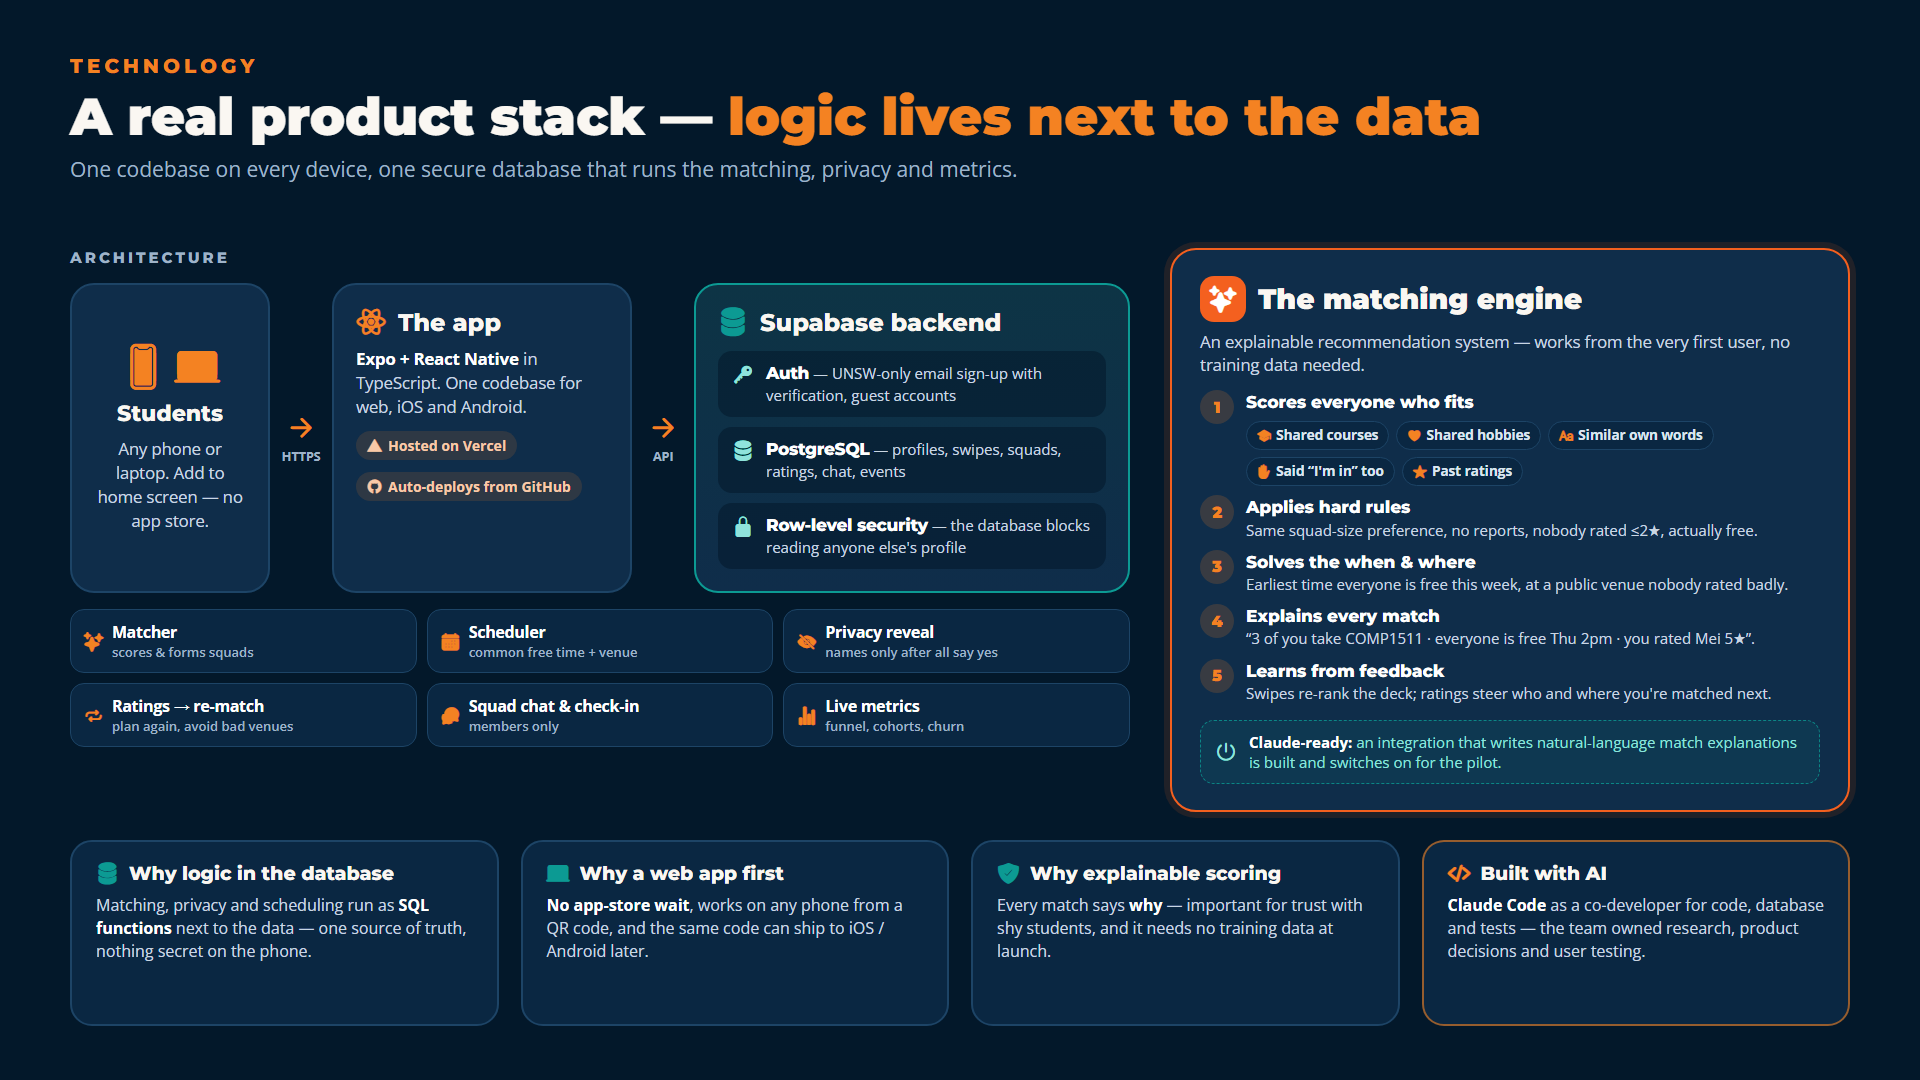
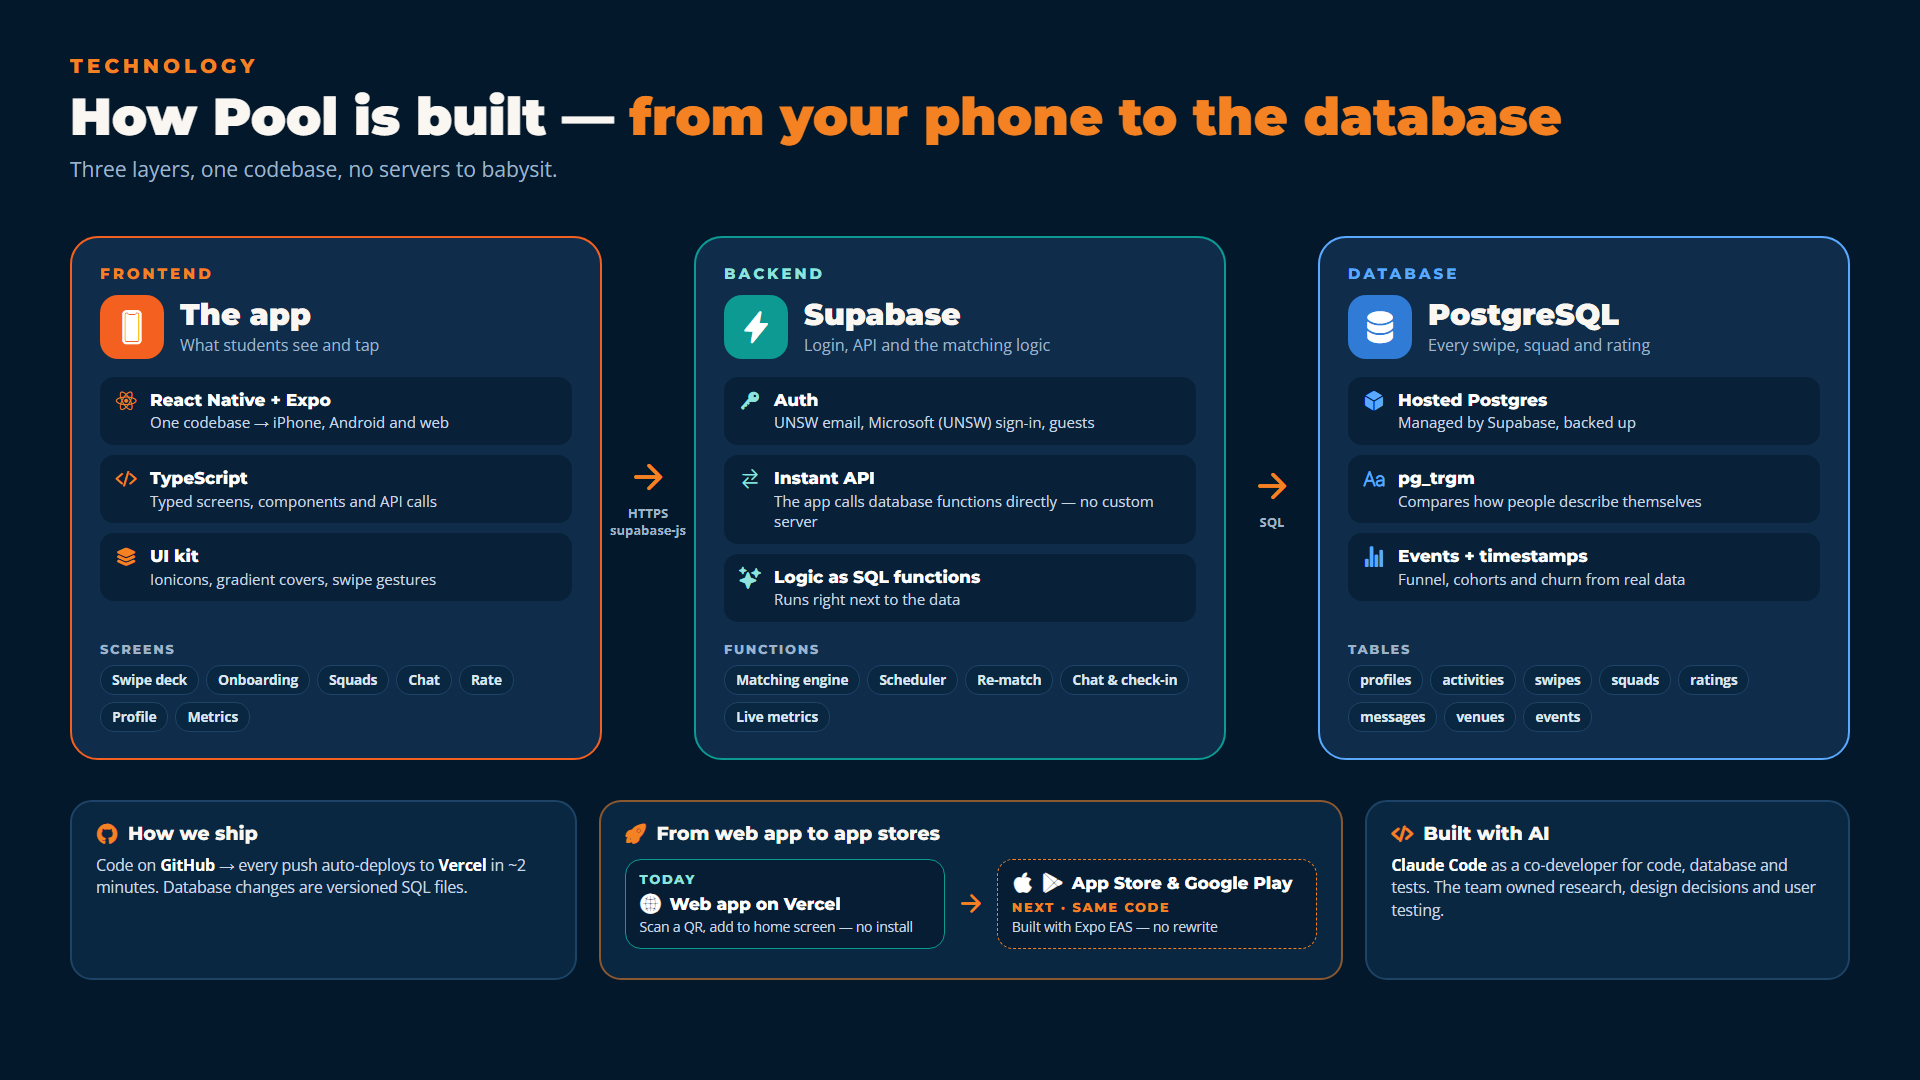
Technology slide v2: frontend → backend → database flow, web-to-app-store path

diff --git a/docs/technology-slide.html b/docs/technology-slide.html
@@ -9,7 +9,7 @@
   @font-face { font-family: Ionicons; src: url(Ionicons.ttf); }
   :root {
     --navy: #03182A; --navy2: #0A2742; --card: #0F2D4A; --line: #1D4466;
-    --orange: #F4601F; --orange2: #F48222; --teal: #0C9A93; --mint: #8FE3DC;
+    --orange: #F4601F; --orange2: #F48222; --teal: #0C9A93; --mint: #8FE3DC; --blue: #5AA9FF;
     --cream: #FAF7F2; --muted: #9FB3C8; --body: #C9D6E3;
   }
   * { box-sizing: border-box; margin: 0; padding: 0; }
@@ -23,157 +23,153 @@
   h1 em { font-style: normal; color: var(--orange2); }
   .sub { font-size: 21px; color: var(--muted); margin-top: 10px; }
 
-  .label { font-family: Montserrat; font-weight: 800; font-size: 15px; letter-spacing: 3px; color: var(--muted); }
+  /* ---------- the flow ---------- */
+  .flow { position: absolute; left: 70px; right: 70px; top: 236px; height: 524px; display: flex; align-items: stretch; }
+  .layer { flex: 1; background: var(--card); border: 2px solid var(--line); border-radius: 28px; padding: 26px 28px;
+    display: flex; flex-direction: column; position: relative; }
+  .layer.front { border-color: var(--orange); }
+  .layer.back { border-color: var(--teal); }
+  .layer.db { border-color: var(--blue); }
+  .tag { font-family: Montserrat; font-weight: 800; font-size: 15px; letter-spacing: 3px; }
+  .front .tag { color: var(--orange2); } .back .tag { color: var(--mint); } .db .tag { color: var(--blue); }
+  .head { display: flex; align-items: center; gap: 16px; margin-top: 12px; }
+  .badge { width: 64px; height: 64px; border-radius: 18px; display: flex; align-items: center; justify-content: center;
+    font-size: 34px; color: #fff; flex: none; }
+  .front .badge { background: var(--orange); } .back .badge { background: var(--teal); } .db .badge { background: #2F7BD6; }
+  .head h2 { font-family: Montserrat; font-weight: 900; font-size: 30px; line-height: 1.1; }
+  .head p { font-size: 16px; color: var(--muted); margin-top: 3px; }
+  .stack { margin-top: 18px; display: grid; gap: 10px; }
+  .row { display: flex; align-items: flex-start; gap: 12px; background: rgba(3,24,42,.55); border-radius: 14px; padding: 12px 14px; }
+  .row .i { font-size: 22px; margin-top: 1px; flex: none; width: 24px; text-align: center; }
+  .front .row .i { color: var(--orange2); } .back .row .i { color: var(--mint); } .db .row .i { color: var(--blue); }
+  .row b { font-family: Montserrat; font-weight: 800; font-size: 17px; color: #fff; }
+  .row div { font-size: 15px; color: var(--body); line-height: 1.38; }
+  .chips { display: flex; flex-wrap: wrap; gap: 7px; margin-top: auto; padding-top: 14px; }
+  .chip { padding: 5px 11px; border-radius: 14px; background: var(--navy2); border: 1px solid var(--line);
+    font-size: 13.5px; font-weight: 700; color: #DCE6F0; }
+  .chiplabel { font-family: Montserrat; font-weight: 800; font-size: 12.5px; letter-spacing: 2px; color: var(--muted); margin-top: auto; padding-top: 12px; }
+  .chiplabel + .chips { margin-top: 0; padding-top: 8px; }
 
-  /* ---------- architecture (left) ---------- */
-  .arch { position: absolute; left: 70px; top: 248px; width: 1060px; }
-  .flow { display: flex; align-items: stretch; gap: 0; margin-top: 16px; }
-  .box { background: var(--card); border: 2px solid var(--line); border-radius: 24px; padding: 22px; }
-  .box h2 { font-family: Montserrat; font-weight: 800; font-size: 24px; display: flex; align-items: center; gap: 12px; }
-  .box h2 .i { font-size: 30px; color: var(--orange2); }
-  .box p { font-size: 16.5px; line-height: 1.45; color: var(--body); margin-top: 10px; }
-  .box p b { color: #fff; }
-  .user { width: 200px; text-align: center; display: flex; flex-direction: column; align-items: center; justify-content: center; }
-  .user .devices { font-size: 46px; color: var(--orange2); display: flex; gap: 8px; }
-  .user h2 { justify-content: center; margin-top: 10px; font-size: 22px; }
-  .app { width: 300px; }
-  .supa { flex: 1; border-color: var(--teal); background: linear-gradient(180deg, #0D3445 0%, #0F2D4A 100%); }
-  .supa h2 .i { color: var(--teal); }
-  .link { width: 62px; display: flex; flex-direction: column; align-items: center; justify-content: center; gap: 6px;
-    color: var(--orange2); }
-  .link .i { font-size: 30px; }
-  .link span { font-size: 12.5px; font-weight: 700; color: var(--muted); text-align: center; line-height: 1.2; }
-  .tag { display: inline-flex; align-items: center; gap: 6px; margin-top: 12px; margin-right: 6px; padding: 5px 11px;
-    border-radius: 20px; background: rgba(244,130,34,.14); color: #F9C9A8; font-size: 14px; font-weight: 700; }
-  .tag .i { font-size: 15px; }
-  .layers { display: grid; gap: 10px; margin-top: 14px; }
-  .layer { display: flex; gap: 12px; align-items: flex-start; background: rgba(3,24,42,.55); border-radius: 14px; padding: 11px 14px; }
-  .layer .i { font-size: 22px; color: var(--mint); margin-top: 2px; }
-  .layer b { font-family: Montserrat; font-weight: 800; font-size: 16.5px; color: #fff; }
-  .layer div { font-size: 15px; color: var(--body); line-height: 1.4; }
-
-  .fns { margin-top: 16px; display: grid; grid-template-columns: repeat(3, 1fr); gap: 10px; }
-  .fn { display: flex; align-items: center; gap: 9px; background: var(--navy2); border: 1.5px solid var(--line); border-radius: 14px;
-    padding: 11px 13px; font-size: 15.5px; font-weight: 700; color: #fff; }
-  .fn .i { font-size: 19px; color: var(--orange2); }
-  .fn small { display: block; font-weight: 600; font-size: 13px; color: var(--muted); }
-
-  /* ---------- matching engine (right) ---------- */
-  .engine { position: absolute; left: 1170px; top: 248px; width: 680px; background: var(--card);
-    border: 2px solid var(--orange); border-radius: 26px; padding: 26px 28px; box-shadow: 0 0 0 6px rgba(244,96,31,.12); }
-  .engine h2 { font-family: Montserrat; font-weight: 900; font-size: 28px; display: flex; align-items: center; gap: 12px; }
-  .engine h2 .badge { width: 46px; height: 46px; border-radius: 14px; background: var(--orange); display: flex;
-    align-items: center; justify-content: center; font-size: 26px; color: #fff; }
-  .engine .lead { font-size: 16.5px; color: var(--body); margin-top: 8px; }
-  .steps { display: grid; gap: 9px; margin-top: 14px; }
-  .step { display: grid; grid-template-columns: 34px 1fr; gap: 12px; align-items: start; }
-  .step .n { width: 34px; height: 34px; border-radius: 50%; background: rgba(244,130,34,.18); color: var(--orange2);
-    font-family: Montserrat; font-weight: 900; font-size: 16px; display: flex; align-items: center; justify-content: center; }
-  .step b { font-family: Montserrat; font-weight: 800; font-size: 17px; color: #fff; }
-  .step div { font-size: 15px; color: var(--body); line-height: 1.42; }
-  .chips { display: flex; flex-wrap: wrap; gap: 7px; margin-top: 7px; }
-  .chip { display: inline-flex; align-items: center; gap: 5px; padding: 4px 10px; border-radius: 16px; background: var(--navy2);
-    border: 1px solid var(--line); font-size: 13.5px; font-weight: 700; color: #DCE6F0; }
-  .chip .i { font-size: 14px; color: var(--orange2); }
-  .ready { margin-top: 16px; display: flex; gap: 12px; align-items: center;
-    border: 1.5px dashed rgba(12,154,147,.8); background: rgba(12,154,147,.1); border-radius: 14px; padding: 11px 14px;
-    font-size: 15px; color: var(--mint); }
-  .ready .i { font-size: 22px; }
-  .ready b { color: #fff; }
+  .arrow { width: 92px; flex: none; display: flex; flex-direction: column; align-items: center; justify-content: center; gap: 8px; }
+  .arrow .i { font-size: 40px; color: var(--orange2); }
+  .arrow span { font-size: 13px; font-weight: 700; color: var(--muted); text-align: center; line-height: 1.3; }
 
   /* ---------- bottom ---------- */
-  .base { position: absolute; left: 70px; right: 70px; top: 840px; height: 186px; display: flex; gap: 22px; }
-  .pill { flex: 1; background: var(--navy2); border: 2px solid var(--line); border-radius: 22px; padding: 20px 24px; }
+  .base { position: absolute; left: 70px; right: 70px; top: 800px; height: 180px; display: flex; gap: 22px; }
+  .pill { background: var(--navy2); border: 2px solid var(--line); border-radius: 22px; padding: 20px 24px; }
   .pill h3 { font-family: Montserrat; font-weight: 800; font-size: 19px; display: flex; align-items: center; gap: 10px; }
-  .pill h3 .i { font-size: 23px; color: var(--teal); }
-  .pill p { font-size: 16px; line-height: 1.45; color: var(--body); margin-top: 9px; }
+  .pill h3 .i { font-size: 22px; color: var(--orange2); }
+  .pill p { font-size: 15.5px; line-height: 1.45; color: var(--body); margin-top: 9px; }
   .pill p b { color: #fff; }
-  .pill.ai { border-color: rgba(244,130,34,.6); }
-  .pill.ai h3 .i { color: var(--orange2); }
+  .ship { flex: 1.05; }
+  .road { flex: 1.6; border-color: rgba(244,130,34,.55); }
+  .ai { flex: 1; }
+  .steps { display: flex; align-items: center; gap: 12px; margin-top: 14px; }
+  .step { flex: 1; border-radius: 16px; padding: 12px 14px; background: rgba(3,24,42,.6); border: 1.5px solid var(--line); }
+  .step.now { border-color: var(--teal); }
+  .step.next { border-color: var(--orange2); border-style: dashed; }
+  .step .when { font-family: Montserrat; font-weight: 800; font-size: 12.5px; letter-spacing: 2px; }
+  .step.now .when { color: var(--mint); } .step.next .when { color: var(--orange2); }
+  .step .what { display: flex; align-items: center; gap: 8px; margin-top: 6px; font-family: Montserrat; font-weight: 800; font-size: 17px; color: #fff; }
+  .step .what .i { font-size: 22px; }
+  .step .how { font-size: 13.5px; color: var(--body); margin-top: 3px; }
+  .steps > .i { font-size: 28px; color: var(--orange2); }
 </style>
 </head>
 <body>
   <header>
     <div class="kicker">TECHNOLOGY</div>
-    <h1>A real product stack — <em>logic lives next to the data</em></h1>
-    <div class="sub">One codebase on every device, one secure database that runs the matching, privacy and metrics.</div>
+    <h1>How Pool is built — <em>from your phone to the database</em></h1>
+    <div class="sub">Three layers, one codebase, no servers to babysit.</div>
   </header>
 
-  <!-- Architecture -->
-  <section class="arch">
-    <div class="label">ARCHITECTURE</div>
-    <div class="flow">
-      <div class="box user">
-        <div class="devices"><i class="i">&#62644;</i><i class="i">&#62380;</i></div>
-        <h2>Students</h2>
-        <p>Any phone or laptop. Add to home screen — no app store.</p>
+  <div class="flow">
+    <!-- FRONTEND -->
+    <section class="layer front">
+      <div class="tag">FRONTEND</div>
+      <div class="head">
+        <div class="badge"><i class="i">&#62644;</i></div>
+        <div><h2>The app</h2><p>What students see and tap</p></div>
       </div>
-      <div class="link"><i class="i">&#61747;</i><span>HTTPS</span></div>
-      <div class="box app">
-        <h2><i class="i">&#62476;</i>The app</h2>
-        <p><b>Expo + React Native</b> in TypeScript. One codebase for web, iOS and Android.</p>
-        <span class="tag"><i class="i">&#62495;</i>Hosted on Vercel</span>
-        <span class="tag"><i class="i">&#62451;</i>Auto-deploys from GitHub</span>
+      <div class="stack">
+        <div class="row"><i class="i">&#62476;</i><div><b>React Native + Expo</b><br/>One codebase → iPhone, Android and web</div></div>
+        <div class="row"><i class="i">&#62062;</i><div><b>TypeScript</b><br/>Typed screens, components and API calls</div></div>
+        <div class="row"><i class="i">&#62383;</i><div><b>UI kit</b><br/>Ionicons, gradient covers, swipe gestures</div></div>
       </div>
-      <div class="link"><i class="i">&#61747;</i><span>API</span></div>
-      <div class="box supa">
-        <h2><i class="i">&#62824;</i>Supabase backend</h2>
-        <div class="layers">
-          <div class="layer"><i class="i">&#62371;</i><div><b>Auth</b> — UNSW-only email sign-up with verification, guest accounts</div></div>
-          <div class="layer"><i class="i">&#62824;</i><div><b>PostgreSQL</b> — profiles, swipes, squads, ratings, chat, events</div></div>
-          <div class="layer"><i class="i">&#62407;</i><div><b>Row-level security</b> — the database blocks reading anyone else's profile</div></div>
+      <div class="chiplabel">SCREENS</div>
+      <div class="chips">
+        <span class="chip">Swipe deck</span><span class="chip">Onboarding</span><span class="chip">Squads</span>
+        <span class="chip">Chat</span><span class="chip">Rate</span><span class="chip">Profile</span><span class="chip">Metrics</span>
+      </div>
+    </section>
+
+    <div class="arrow"><i class="i">&#61747;</i><span>HTTPS<br/>supabase-js</span></div>
+
+    <!-- BACKEND -->
+    <section class="layer back">
+      <div class="tag">BACKEND</div>
+      <div class="head">
+        <div class="badge"><i class="i">&#62230;</i></div>
+        <div><h2>Supabase</h2><p>Login, API and the matching logic</p></div>
+      </div>
+      <div class="stack">
+        <div class="row"><i class="i">&#62371;</i><div><b>Auth</b><br/>UNSW email, Microsoft (UNSW) sign-in, guests</div></div>
+        <div class="row"><i class="i">&#62896;</i><div><b>Instant API</b><br/>The app calls database functions directly — no custom server</div></div>
+        <div class="row"><i class="i">&#62860;</i><div><b>Logic as SQL functions</b><br/>Runs right next to the data</div></div>
+      </div>
+      <div class="chiplabel">FUNCTIONS</div>
+      <div class="chips">
+        <span class="chip">Matching engine</span><span class="chip">Scheduler</span><span class="chip">Re-match</span>
+        <span class="chip">Chat &amp; check-in</span><span class="chip">Live metrics</span>
+      </div>
+    </section>
+
+    <div class="arrow"><i class="i">&#61747;</i><span>SQL</span></div>
+
+    <!-- DATABASE -->
+    <section class="layer db">
+      <div class="tag">DATABASE</div>
+      <div class="head">
+        <div class="badge"><i class="i">&#62824;</i></div>
+        <div><h2>PostgreSQL</h2><p>Every swipe, squad and rating</p></div>
+      </div>
+      <div class="stack">
+        <div class="row"><i class="i">&#62104;</i><div><b>Hosted Postgres</b><br/>Managed by Supabase, backed up</div></div>
+        <div class="row"><i class="i">&#62923;</i><div><b>pg_trgm</b><br/>Compares how people describe themselves</div></div>
+        <div class="row"><i class="i">&#62875;</i><div><b>Events + timestamps</b><br/>Funnel, cohorts and churn from real data</div></div>
+      </div>
+      <div class="chiplabel">TABLES</div>
+      <div class="chips">
+        <span class="chip">profiles</span><span class="chip">activities</span><span class="chip">swipes</span><span class="chip">squads</span>
+        <span class="chip">ratings</span><span class="chip">messages</span><span class="chip">venues</span><span class="chip">events</span>
+      </div>
+    </section>
+  </div>
+
+  <div class="base">
+    <div class="pill ship">
+      <h3><i class="i">&#62451;</i>How we ship</h3>
+      <p>Code on <b>GitHub</b> → every push auto-deploys to <b>Vercel</b> in ~2 minutes. Database changes are versioned SQL files.</p>
+    </div>
+    <div class="pill road">
+      <h3><i class="i">&#62791;</i>From web app to app stores</h3>
+      <div class="steps">
+        <div class="step now">
+          <div class="when">TODAY</div>
+          <div class="what"><i class="i">&#62287;</i>Web app on Vercel</div>
+          <div class="how">Scan a QR, add to home screen — no install</div>
+        </div>
+        <i class="i">&#61747;</i>
+        <div class="step next">
+          <div class="what" style="margin-top:0"><i class="i">&#62424;</i><i class="i">&#62454;</i>App Store &amp; Google Play</div>
+          <div class="when" style="margin-top:6px">NEXT · SAME CODE</div>
+          <div class="how">Built with Expo EAS — no rewrite</div>
         </div>
       </div>
     </div>
-
-    <div class="fns">
-      <div class="fn"><i class="i">&#62860;</i><span>Matcher<small>scores &amp; forms squads</small></span></div>
-      <div class="fn"><i class="i">&#61903;</i><span>Scheduler<small>common free time + venue</small></span></div>
-      <div class="fn"><i class="i">&#62183;</i><span>Privacy reveal<small>names only after all say yes</small></span></div>
-      <div class="fn"><i class="i">&#62767;</i><span>Ratings → re-match<small>plan again, avoid bad venues</small></span></div>
-      <div class="fn"><i class="i">&#61975;</i><span>Squad chat &amp; check-in<small>members only</small></span></div>
-      <div class="fn"><i class="i">&#62875;</i><span>Live metrics<small>funnel, cohorts, churn</small></span></div>
-    </div>
-  </section>
-
-  <!-- Matching engine -->
-  <section class="engine">
-    <h2><span class="badge"><i class="i">&#62860;</i></span>The matching engine</h2>
-    <div class="lead">An explainable recommendation system — works from the very first user, no training data needed.</div>
-    <div class="steps">
-      <div class="step"><span class="n">1</span><div><b>Scores everyone who fits</b>
-        <div class="chips">
-          <span class="chip"><i class="i">&#62812;</i>Shared courses</span>
-          <span class="chip"><i class="i">&#62314;</i>Shared hobbies</span>
-          <span class="chip"><i class="i">&#62923;</i>Similar own words</span>
-          <span class="chip"><i class="i">&#62299;</i>Said “I'm in” too</span>
-          <span class="chip"><i class="i">&#62869;</i>Past ratings</span>
-        </div></div></div>
-      <div class="step"><span class="n">2</span><div><b>Applies hard rules</b><br/>Same squad-size preference, no reports, nobody rated ≤2★, actually free.</div></div>
-      <div class="step"><span class="n">3</span><div><b>Solves the when &amp; where</b><br/>Earliest time everyone is free this week, at a public venue nobody rated badly.</div></div>
-      <div class="step"><span class="n">4</span><div><b>Explains every match</b><br/>“3 of you take COMP1511 · everyone is free Thu 2pm · you rated Mei 5★”.</div></div>
-      <div class="step"><span class="n">5</span><div><b>Learns from feedback</b><br/>Swipes re-rank the deck; ratings steer who and where you're matched next.</div></div>
-    </div>
-    <div class="ready"><i class="i">&#62695;</i><div><b>Claude-ready:</b> an integration that writes natural-language match explanations is built and switches on for the pilot.</div></div>
-  </section>
-
-  <!-- Decisions + AI to build -->
-  <div class="base">
-    <div class="pill">
-      <h3><i class="i">&#62824;</i>Why logic in the database</h3>
-      <p>Matching, privacy and scheduling run as <b>SQL functions</b> next to the data — one source of truth, nothing secret on the phone.</p>
-    </div>
-    <div class="pill">
-      <h3><i class="i">&#62380;</i>Why a web app first</h3>
-      <p><b>No app-store wait</b>, works on any phone from a QR code, and the same code can ship to iOS / Android later.</p>
-    </div>
-    <div class="pill">
-      <h3><i class="i">&#62840;</i>Why explainable scoring</h3>
-      <p>Every match says <b>why</b> — important for trust with shy students, and it needs no training data at launch.</p>
-    </div>
     <div class="pill ai">
       <h3><i class="i">&#62062;</i>Built with AI</h3>
-      <p><b>Claude Code</b> as a co-developer for code, database and tests — the team owned research, product decisions and user testing.</p>
+      <p><b>Claude Code</b> as a co-developer for code, database and tests. The team owned research, design decisions and user testing.</p>
     </div>
   </div>
 </body>
